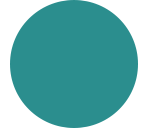
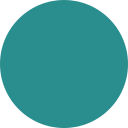
Config Screen changing -- LeftRightPanel add pics

Changed region(s): [[0.5312, 0.0, 1.0, 1.0], [0.0, 0.0, 0.4688, 1.0]]

diff --git a/core/src/com/shuttle/game/conf/PaintConstants.java b/core/src/com/shuttle/game/conf/PaintConstants.java
@@ -176,7 +176,7 @@ public final class PaintConstants {
     public static final int LEFT_RIGHT_PANEL_ELEMENT_HEIGHT = 128;
     public static final String LEFT_RIGHT_PANEL_FULL_CIRCLE = "fullcircle";
     public static final String LEFT_RIGHT_PANEL_EMPTY_CIRCLE = "emptycircle";
-    public static final int LEFT_RIGHT_PANEL_CIRCLE_WIDTH = 148;
+    public static final int LEFT_RIGHT_PANEL_CIRCLE_WIDTH = 128;
     public static final int LEFT_RIGHT_PANEL_CIRCLE_HEIGHT = 128;
     public static final String LEFT_RIGHT_UI_CELL_CENTER = "cellcenter";
     public static final String LEFT_RIGHT_UI_CELL_UPDOWN = "cellupdown";
